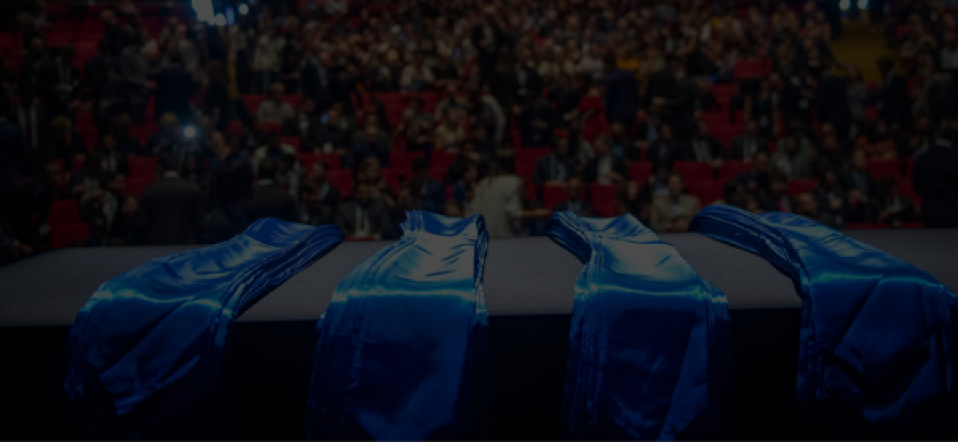
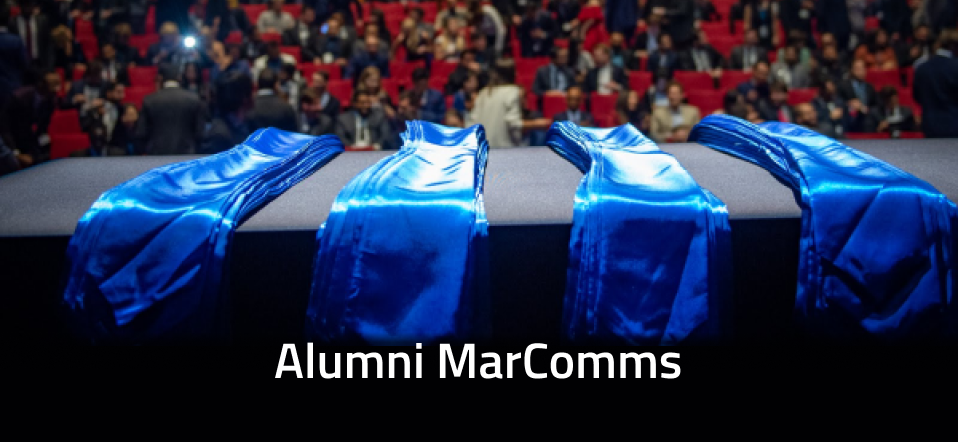
Updated AlumniMarComms v1.

diff --git a/index.html b/index.html
@@ -63,66 +63,26 @@
     <div class="white-outline">
         <div class="content" data-ix="show-nav">
             <div class="projects" id="Work">
-                <!-- <div class="w-dyn-list">
+                <div class="w-dyn-list">
                     <div class="w-clearfix w-dyn-items w-row">
                         <div class="item w-col w-col-6 w-dyn-item" data-ix="fade-in-on-scroll">
-                            <a class="tile w-inline-block" data-ix="textfadeup" style="background-image: url('img/imgEfH.PNG');" href="project/EfH/EfH.html" target="_blank">
+                            <a class="tile w-inline-block" data-ix="textfadeup" style="background-image: url('img/imgRoadKillWorker.png');" href="project/RoadKillWorker/RoadKillWorker.html" target="_blank">
                                 <div class="overlay">
                                     <h1>RoadKill Worker</h1>
-                                    <h4>Create Squared</h4>
+                                    <h4>Game Design, 3D Modelling</h4>
                                 </div>
                             </a>
                         </div>
                         <div class="item w-col w-col-6 w-dyn-item" data-ix="fade-in-on-scroll">
-                            <a class="tile w-inline-block" data-ix="textfadeup" style="background-image: url('img/imgAlumniMarComms.png');" href="project/AlumniMarComms/AlumniMarComms.html">
+                            <a class="tile w-inline-block" data-ix="textfadeup" style="background-image: url('img/imgAlumniMarComms.png');" href="project/AlumniMarComms/AlumniMarComms.html" target="_blank">
                                 <div class="overlay">
-                                    <h1>EIT Digital Alumni</h1>
-                                    <h4>Visual Design, Branding</h4>
+                                    <h1>Alumni MarComms</h1>
+                                    <h4>Branding, Copywriting</h4>
                                 </div>
                             </a>
                         </div>
                     </div>
                 </div>
-                <div class="w-dyn-list">
-                    <div class="w-clearfix w-dyn-items w-row">
-                        <div class="item w-col w-col-6 w-dyn-item" data-ix="fade-in-on-scroll">
-                            <a class="tile w-inline-block" data-ix="textfadeup" style="background-image: url('img/imgEfH.PNG');" href="project/RoadKillWorker/RoadKillWorker.html" target="_blank">
-                                <div class="overlay">
-                                    <h1>RoadKillWorker</h1>
-                                    <h4>Game Design, Game Development</h4>
-                                </div>
-                            </a>
-                        </div>
-                        <div class="item w-col w-col-6 w-dyn-item" data-ix="fade-in-on-scroll">
-                            <a class="tile w-inline-block" data-ix="textfadeup" style="background-image: url('img/imgDowndatedCity.png');" href="project/DowndatedCity/DowndatedCity.html">
-                                <div class="overlay">
-                                    <h1>EIT Digital Alumni</h1>
-                                    <h4>Visual Design, Branding</h4>
-                                </div>
-                            </a>
-                        </div>
-                    </div>
-                </div>
-                <div class="w-dyn-list">
-                    <div class="w-clearfix w-dyn-items w-row">
-                        <div class="item w-col w-col-6 w-dyn-item" data-ix="fade-in-on-scroll">
-                            <a class="tile w-inline-block" data-ix="textfadeup" style="background-image: url('img/imgEfH.PNG');" href="project/EfH/EfH.html" target="_blank">
-                                <div class="overlay">
-                                    <h1>Radio Testing Framework Optimization</h1>
-                                    <h4>Data Science</h4>
-                                </div>
-                            </a>
-                        </div>
-                        <div class="item w-col w-col-6 w-dyn-item" data-ix="fade-in-on-scroll">
-                            <a class="tile w-inline-block" data-ix="textfadeup" style="background-image: url('img/imgDowndatedCity.png');" href="project/DowndatedCity/DowndatedCity.html">
-                                <div class="overlay">
-                                    <h1>HackVsCOVID19</h1>
-                                    <h4>Mobile App Development, UI/UX Design</h4>
-                                </div>
-                            </a>
-                        </div>
-                    </div>
-                </div>   -->
                 <div class="w-dyn-list">
                     <div class="w-clearfix w-dyn-items">
                         <div class="item w-dyn-item" data-ix="fade-in-on-scroll">
@@ -218,26 +178,6 @@
                                 <div class="overlay">
                                     <h1>BillPie</h1>
                                     <h4>UI/UX Design</h4>
-                                </div>
-                            </a>
-                        </div>
-                    </div>
-                </div>
-                <div class="w-dyn-list">
-                    <div class="w-clearfix w-dyn-items w-row">
-                        <div class="item w-col w-col-6 w-dyn-item" data-ix="fade-in-on-scroll">
-                            <a class="tile w-inline-block" data-ix="textfadeup" style="background-image: url('img/imgRoadKillWorker.png');" href="project/RoadKillWorker/RoadKillWorker.html" target="_blank">
-                                <div class="overlay">
-                                    <h1>RoadKill Worker</h1>
-                                    <h4>Game Design, 3D Modelling</h4>
-                                </div>
-                            </a>
-                        </div>
-                        <div class="item w-col w-col-6 w-dyn-item" data-ix="fade-in-on-scroll">
-                            <a class="tile w-inline-block" data-ix="textfadeup" style="background-image: url('img/imgAlumniMarComms.png');" href="AlumniMarComms.html" target="_blank">
-                                <div class="overlay">
-                                    <h1>EIT Digital Alumni</h1>
-                                    <h4>Visual Design, Branding</h4>
                                 </div>
                             </a>
                         </div>

diff --git a/project/AlumniMarComms/AlumniMarComms.html b/project/AlumniMarComms/AlumniMarComms.html
@@ -62,44 +62,37 @@
     <div data-ix="show-project-nav">
         <div class="no-bottom-pad project-container">
             <div class="w-row add-info w-richtext" data-ix="fade-in-on-scroll" >
-                <h2>It is an alumni community...</h2>
-                <p>where each of us has a major degree in a technical domain and a minor degree in innovation & entrepreneurship from <a href="https://www.eitdigital.eu/eit-digital-academy/" alt="" target="_blank">EIT Digital Academy</a> which connects universities across European countries.
+                <h2>It is an alumni community where...</h2>
+                <p>each of us has a major degree in a technical domain and a minor degree in innovation & entrepreneurship from <a href="https://www.eitdigital.eu/eit-digital-academy/" alt="" target="_blank">EIT Digital Academy</a> which connects universities across European countries.
                     <br><br>We are used to study and team-up with people from different cultural background, 
                     <br>educated to turn technical creativity into real-life applications and startups,
                     <br>and connected by the shared mentality of entrepreneurship and internationalism.&nbsp;</p>
                 <img data-ix="fade-in-on-scroll" class ="project-image" src="communityBg.png">
                 <p data-ix="fade-in-on-scroll"><br><br>I ran for its Marketing and Communications Officer (abbr. MarComms) in the Board election and got elected for a two-year mandate starting from July, 2019&nbsp;</p>
-                <img class="project-image" src="election.png" />
+                <img data-ix="fade-in-on-scroll" class="project-image" src="election.png" />
                 <p>The initial idea was giving back to the community, as I have met many lovely people there who changed my view of the world.&nbsp;</p>
             </div>
             <div class="w-row">
                 <img data-ix="fade-in-on-scroll" class ="project-image" src="jobOverview.png">
             </div>            
-            <div class="w-row">
-                <img data-ix="fade-in-on-scroll" class ="project-image" src="strategy.png">
+            <div data-ix="fade-in-on-scroll" class="w-row">
+                <img class ="project-image" src="strategy.png">
             </div>
             <div class="w-row">
-                <img data-ix="fade-in-on-scroll" class ="project-image" src="content.png">
+                <img data-ix="fade-in-on-scroll" class ="project-image" src="content1.png">
+                <img data-ix="fade-in-on-scroll" class ="project-image" src="content2.png">
+                <p data-ix="fade-in-on-scroll" class="add-info w-richtext">Check out more content on our social media accounts: <a href="https://www.facebook.com/digitalumni" alt="" target="_blank">FaceBook</a>, <a href="https://www.linkedin.com/school/eit-digital-alumni/?viewAsMember=true" alt="" target="_blank">LinkedIn</a>, <a href="https://twitter.com/digitalumni" alt="" target="_blank">Twitter</a>, <a href="https://www.instagram.com/?hl=en" alt="" target="_blank">Instagram</a></p>
             </div>
             <div class="w-row">
-                <img data-ix="fade-in-on-scroll" class ="project-image" src="stakeholder.png">
-            </div>
-            <div class="w-row" data-ix="fade-in-on-scroll" style="padding-left: 15%; padding-right: 15%; padding-bottom: 5%">
-                <h2>Check out our Social media accounts!</h2>
-            </div>
-            <div class="w-row" data-ix="fade-in-on-scroll">
-                <img data-ix="fade-in-on-scroll" class ="project-image" src="groupPics1.png">
-            </div>
-            <div class="w-row" data-ix="fade-in-on-scroll">
-                <img data-ix="fade-in-on-scroll" class ="project-image" src="groupPics2.png">
+                <img data-ix="fade-in-on-scroll" class ="project-image" src="stakeholder1.png">
+                <img data-ix="fade-in-on-scroll" class ="project-image" src="stakeholder2.png">
             </div>
         </div>
         <div class="w-row add-info w-richtext">
             <p>
-                Work conducted by me with product and front-end dev teams in a two-year mandate | July 2019 - Present
+                Work conducted by me in a two-year mandate | July 2019 - Present
                 <br>Graphics designed with Adobe Creative suite and Figma
-                <br>I met many people from the Alumni community, who changed my view of the world. So I'd give a little back to the community.
-                <br>It is a fun play.
+                <br>I met many people from the Alumni community, who changed my view of the world. So I'd give a little back to the community. It is a fun play.
             </p>
         </div>
         <a class="project-close w-inline-block" data-ix="next" style="background-image: url('../../img/imgGazeTypingKeyboard.png');" href="../../project/GazeTypingKeyboard/GazeTypingKeyboard.html">

diff --git a/project/RoadKillWorker/RoadKillWorker.html b/project/RoadKillWorker/RoadKillWorker.html
@@ -90,7 +90,7 @@
                     <br><br>Visit <a href="https://gitlab.com/jesperTingvall/global-game-jam-2020">GitLab Repo</a></p>
             </div>
         </div>
-        <a class="project-close w-inline-block" data-ix="next" style="background-image: url('../../img/imgGazeTypingKeyboard.png');" href="../../project/GazeTypingKeyboard/GazeTypingKeyboard.html">
+        <a class="project-close w-inline-block" data-ix="next" style="background-image: url('../../img/imgAlumniMarComms.png');" href="../../project/AlumniMarComms/AlumniMarComms.html">
             <div class="next-overlay" data-ix="next">
                 <h1 class="next-header">Next Project</h1></div>
         </a>
